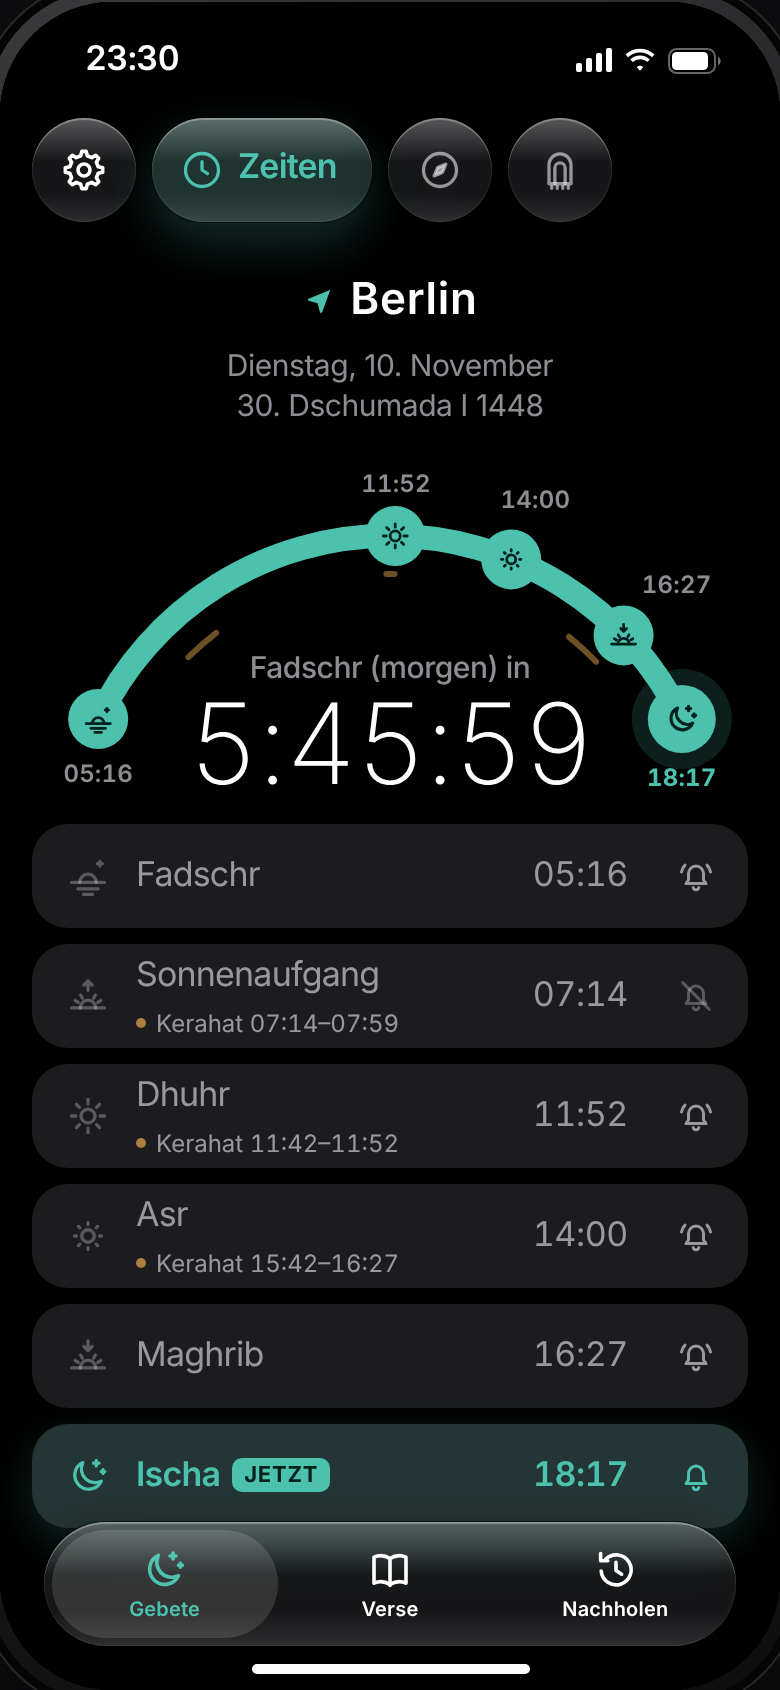
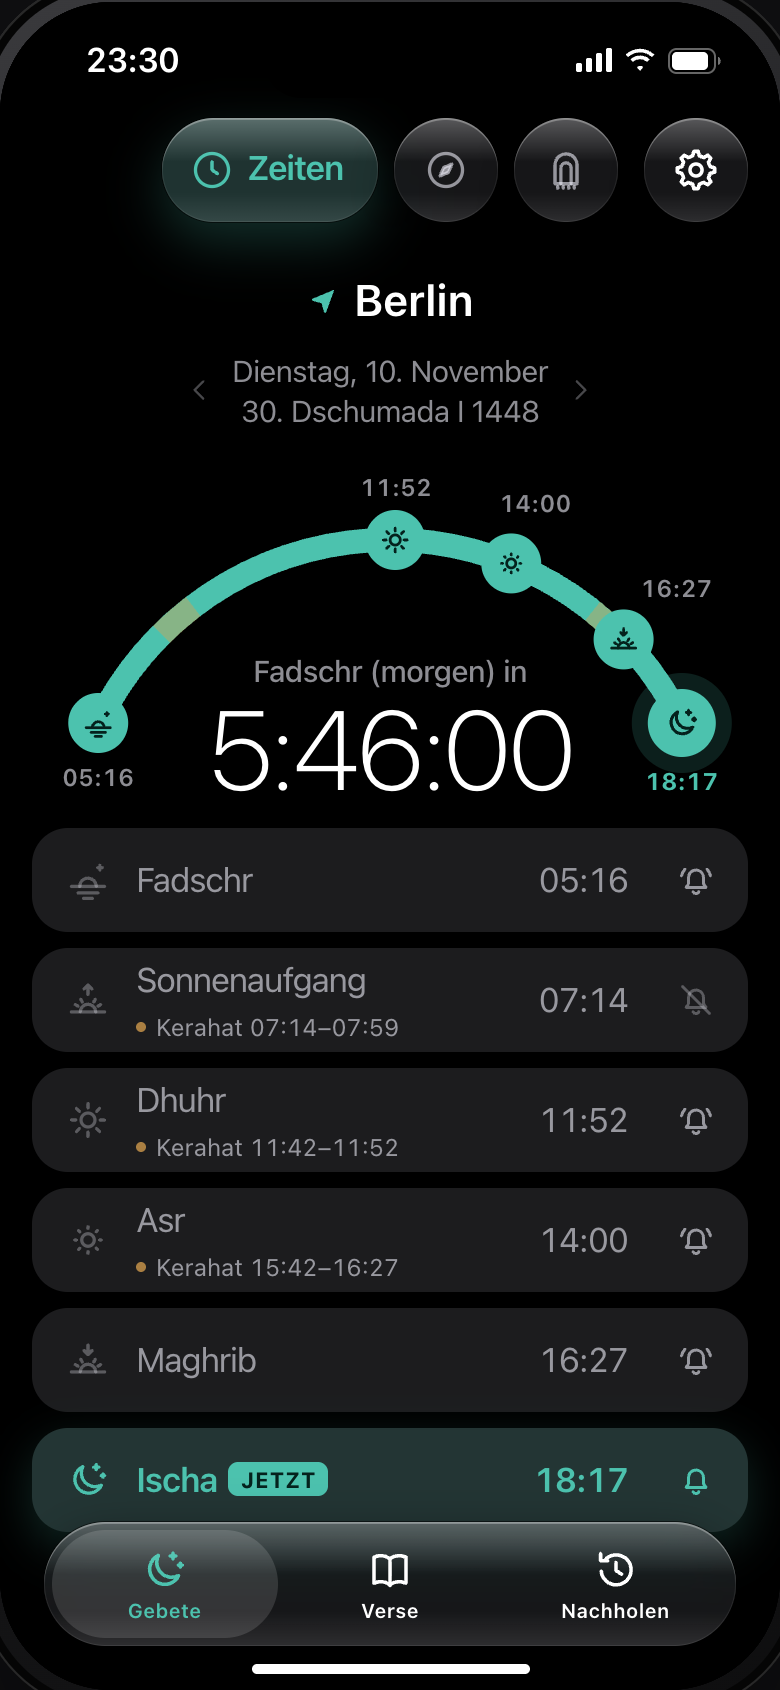
Phase 12: Referenzbilder v0.8 aus dem Prototyp
scripts/capture-prototype nimmt den Bildschirm des Prototyps mit
Playwright auf (2x, ohne Rahmen, Datum 10.11.2026, Uhr je Zustand).
Neu aufgenommen sind alle iPhone-Bilder mit geänderter Leiste,
Tage-Navigation, Kerahat auf der Spur, Toleranz, Rechner, Symbol und
Punkten des Onboardings; neu dazu 05, 23, 33, 34, 82, 83 und die
dunklen Fassungen der geänderten Bildschirme. INDEX.md nennt, was der
Prototyp schon aus Phase 13/15 zeigt und wo die App ihm nicht folgt.

diff --git a/design/screenshots/INDEX.md b/design/screenshots/INDEX.md
@@ -1,19 +1,31 @@
 # Referenz-Screenshots
 
-Aus dem Prototyp `prayer-times-prototype.html` (v0.7) erzeugt, nur der Bildschirm ohne Gerätrahmen, 2x.
+Aus dem Prototyp `prayer-times-prototype.html` erzeugt, nur der Bildschirm ohne Gerätrahmen, 2x.
 iPhone: 390 × 844 pt · iPhone Duo zu: 466 × 678 pt · iPhone Duo auf: 951 × 669 pt.
 Uhrzeiten/Zahlen stammen aus den Mock-Daten des Prototyps (Berlin, 10.11.2026). Mit `-debugFixtureTimes` zeigt die App dieselben Werte.
 Wenn nichts anderes steht: Deutsch, hell, Berlin, 14:25 (Asr aktiv).
 
+**Stand v0.8 (Phase 12, 15.11.2026):** Die Bilder unter `iphone/` hat `scripts/capture-prototype` aus dem Prototyp v0.8 neu aufgenommen (Spec § 9) – alle Zustände stehen in `scripts/capture-prototype.mjs`. Neu sind die dunklen Fassungen der geänderten Bildschirme (`-dark`) und `05`, `23`, `33`, `34`, `82`, `83`. Noch von v0.7 sind `04`, `73`, `74`, `76`–`81`, `85`, `86` (unverändert bis auf die Punkte des Onboardings hinter dem Dialog in `04`), alle `system/*` (Phase 14) und alle `duo/*`.
+
+Was der Prototyp v0.8 schon zeigt, die App aber erst später bekommt:
+- **Phase 13:** Knopf „Gebet Schritt für Schritt“ in der Anleitung (`40`–`42`), Amiri Quran in den Versen (`50`, `51`).
+- **Phase 15:** weitere Sprachen.
+
+Abweichungen des Prototyps, denen die App nicht folgt (Spec > Screenshot > HTML):
+- **`23` (anderer Tag):** Der Prototyp blendet die Kerahat-Abschnitte nach der heutigen Uhrzeit ab; laut Spec § 9.4 hat ein anderer Tag keinen Zustand „vorbei“ – in der App sind alle drei gleich kräftig.
+- **`19` (große Schrift):** Die Chips überdecken im Prototyp das Zahnrad; die App lässt bei Platzmangel den Platzhalter links weg (Spec § 9.2, Zusammenklappen wie bisher).
 
 ## Onboarding & Berechtigungen – Phase 7
 
 | Datei | Zeigt |
 |---|---|
 | `iphone/01-onboarding-1-welcome.png` | Onboarding step 1 (welcome) |
+| `iphone/01-onboarding-1-welcome-dark.png` | Same in dark mode – app icon instead of the crescent (§ 9.1) |
 | `iphone/02-onboarding-2-location.png` | Onboarding step 2 (location priming) |
 | `iphone/03-onboarding-3-notifications.png` | Onboarding step 3 (notification priming) |
 | `iphone/04-alert-location.png` | iOS location alert over step 2 (system UI, for flow context only) |
+| `iphone/05-onboarding-4-free.png` | Onboarding step 4 „Kostenlos. Ohne Werbung.“ (§ 9.9) |
+| `iphone/05-onboarding-4-free-dark.png` | Same in dark mode |
 
 ## Zeiten (Home) – Phase 2 + 3
 
@@ -24,6 +36,7 @@ Wenn nichts anderes steht: Deutsch, hell, Berlin, 14:25 (Asr aktiv).
 | `iphone/12-home-before-fajr.png` | Before Fajr: nothing highlighted, countdown to Fajr |
 | `iphone/13-home-after-sunrise.png` | After sunrise: no current prayer, white "now" knob on the arc |
 | `iphone/14-home-kerahat-active.png` | 07:30 – Kerahat after sunrise active (caption in gold, arc segment stronger) |
+| `iphone/14-home-kerahat-active-dark.png` | Same in dark mode – kerahat drawn on the track (§ 9.3) |
 | `iphone/15-home-kerahat-before-maghrib.png` | 16:05 – Kerahat before Maghrib active on the Asr row |
 | `iphone/16-home-after-isha-dark.png` | After Isha (dark): Isha highlighted, "Fajr tomorrow in" |
 | `iphone/17-home-location-denied-offline.png` | Location denied banner + offline pill |
@@ -32,14 +45,19 @@ Wenn nichts anderes steht: Deutsch, hell, Berlin, 14:25 (Asr aktiv).
 | `iphone/20-home-rtl.png` | RTL preview (arc runs right → left, numbers not mirrored) |
 | `iphone/21-home-turkish-istanbul.png` | Turkish, Istanbul (Diyanet) |
 | `iphone/22-home-jakarta-close-markers.png` | Jakarta, Maghrib active: close markers (Maghrib → Isha 72 min) get a ring |
+| `iphone/23-home-next-day.png` | Next day (`-debugDayOffset 1`): that day's times, relative day + date instead of the countdown, „Zurück zu heute“ (§ 9.4) |
+| `iphone/23-home-next-day-dark.png` | Same in dark mode |
 
 ## Qibla – Phase 4
 
 | Datei | Zeigt |
 |---|---|
-| `iphone/30-qibla.png` | Qibla page (compass, drag to rotate in prototype) |
+| `iphone/30-qibla.png` | Qibla page, heading 98° – now inside the ±40° wedge (compass, drag to rotate in prototype) |
 | `iphone/31-qibla-aligned.png` | Qibla aligned (±3°): accent + haptic |
 | `iphone/32-qibla-mecca.png` | In Mecca: message instead of a needle |
+| `iphone/33-qibla-tolerance.png` | Heading 112°: inside the ±40° wedge – „Im Toleranzbereich“, „Nach rechts drehen 25°“ (§ 9.5) |
+| `iphone/33-qibla-tolerance-dark.png` | Same in dark mode |
+| `iphone/34-qibla-outside.png` | Heading 60°: outside the wedge – only the turn hint |
 
 ## Anleitung – Phase 5
 
@@ -61,7 +79,8 @@ Wenn nichts anderes steht: Deutsch, hell, Berlin, 14:25 (Asr aktiv).
 | Datei | Zeigt |
 |---|---|
 | `iphone/60-qada.png` | Nachholen: percent as largest figure |
-| `iphone/61-qada-calculator.png` | Nachholen scrolled: plan + missed-period calculator |
+| `iphone/61-qada-calculator.png` | Nachholen scrolled to the end: counters + calculator card (§ 9.8) |
+| `iphone/61-qada-calculator-dark.png` | Same in dark mode – calculator as a card at the very bottom (§ 9.8) |
 
 ## Einstellungen – Phase 7
 
@@ -70,6 +89,7 @@ Wenn nichts anderes steht: Deutsch, hell, Berlin, 14:25 (Asr aktiv).
 | `iphone/70-settings.png` | Settings root (top) |
 | `iphone/71-settings-middle.png` | Settings: notifications (incl. Live Activity) + appearance (Kerahat toggle) |
 | `iphone/72-settings-bottom.png` | Settings: about + disclaimer + tagline |
+| `iphone/72-settings-bottom-dark.png` | Same in dark mode – support row, app icon over the tagline (§ 9.1, 9.9) |
 | `iphone/73-settings-method.png` | Settings › Calculation method (searchable, auto per country) |
 | `iphone/74-settings-asr.png` | Settings › Asr (standard / Hanafi) |
 | `iphone/75-settings-hl.png` | Settings › High latitude rule |
@@ -79,6 +99,10 @@ Wenn nichts anderes steht: Deutsch, hell, Berlin, 14:25 (Asr aktiv).
 | `iphone/79-settings-live.png` | Settings › Live Activity lead time |
 | `iphone/80-settings-sound.png` | Settings › Sound |
 | `iphone/81-settings-privacy.png` | Settings › Privacy page |
+| `iphone/82-settings-hl-manual.png` | Settings › High latitude with „Manuelle Winkel“ selected: twilight angle steppers (§ 9.12) |
+| `iphone/82-settings-hl-manual-dark.png` | Same in dark mode |
+| `iphone/83-settings-support.png` | Settings › Unterstützen (§ 9.9) |
+| `iphone/83-settings-support-dark.png` | Same in dark mode |
 
 ## Sheets – Phase 3 (Stadt) und 7 (Adhan)
 
